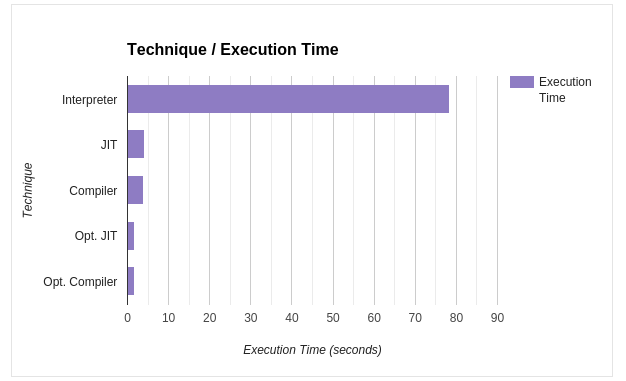
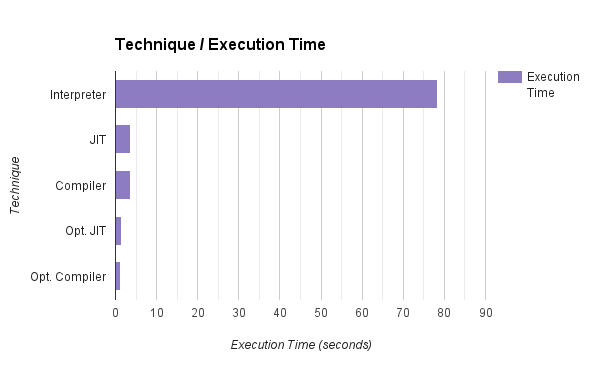
Update results due to previous fix Working on bytes is faster

diff --git a/README.md b/README.md
@@ -115,9 +115,9 @@ Using samples/mandelbrot.bf program which prints the mandelbrot set
 | Method        | Time      |
 | ------------- |----------:|
 | Interpreter   | 78.40s    |
-| Compiler      | 3.83s     |
-| Opt. Compiler | 1.64s     |
-| JIT           | 4.02s     |
-| Opt. JIT      | 1.82s     |
+| Compiler      | 3.66s     |
+| JIT           | 3.59s     |
+| Opt. JIT      | 1.36s     |
+| Opt. Compiler | 1.23s     |
 
 ![alt text](https://github.com/aroulin/brainfuck-tools/blob/master/plot.png "Results graph")
